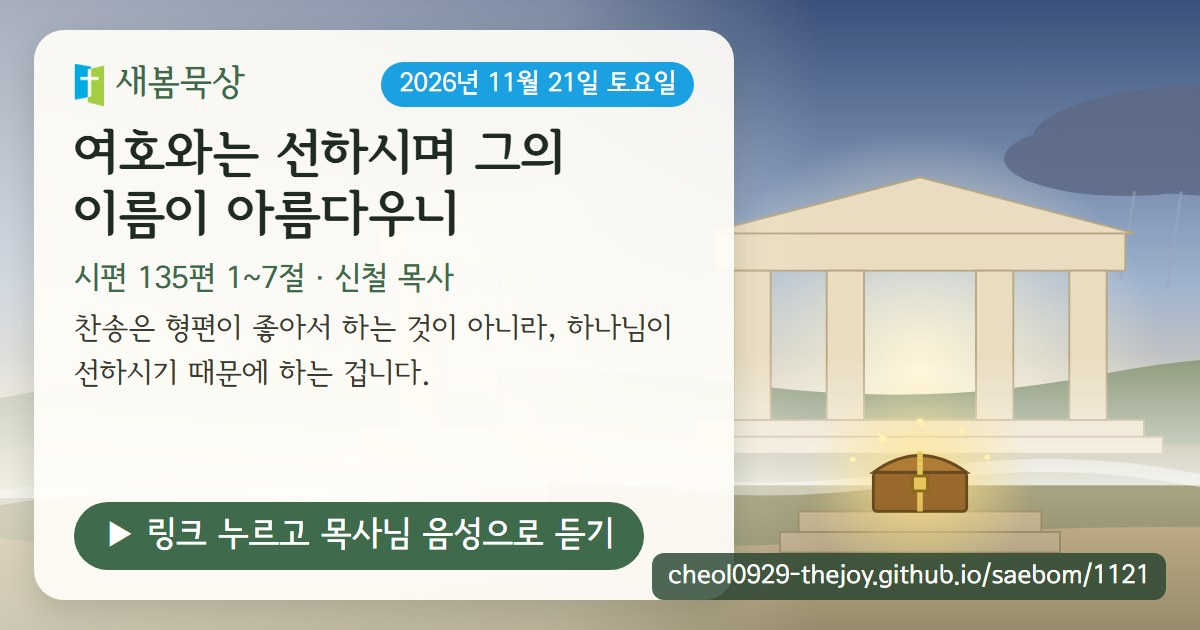
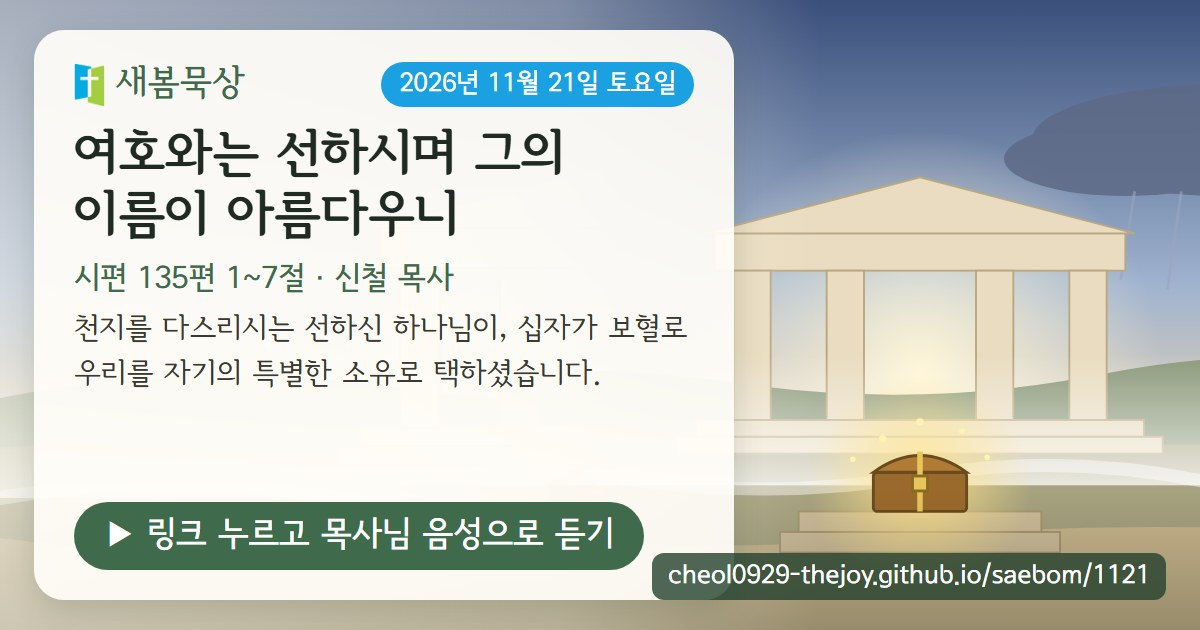
새봄묵상 11.21 여호와는 선하시며 그의 이름이 아름다우니 공유 카드 (카드 다시 만듦)

Changed region(s): [[0.0617, 0.4825, 0.5858, 0.5429], [0.0617, 0.573, 0.4933, 0.6333]]

diff --git a/1121.html b/1121.html
@@ -4,15 +4,15 @@
 <meta property="og:type" content="article">
 <meta property="og:site_name" content="새봄묵상">
 <meta property="og:title" content="새봄묵상 · 여호와는 선하시며 그의 이름이 아름다우니 (11.21)">
-<meta property="og:description" content="찬송은 형편이 좋아서 하는 것이 아니라, 하나님이 선하시기 때문에 하는 겁니다.">
-<meta name="description" content="찬송은 형편이 좋아서 하는 것이 아니라, 하나님이 선하시기 때문에 하는 겁니다.">
+<meta property="og:description" content="천지를 다스리시는 선하신 하나님이, 십자가 보혈로 우리를 자기의 특별한 소유로 택하셨습니다.">
+<meta name="description" content="천지를 다스리시는 선하신 하나님이, 십자가 보혈로 우리를 자기의 특별한 소유로 택하셨습니다.">
 <meta property="og:image" content="https://cheol0929-thejoy.github.io/saebom/1121/share.jpg">
 <meta property="og:image:secure_url" content="https://cheol0929-thejoy.github.io/saebom/1121/share.jpg">
 <meta property="og:image:type" content="image/jpeg">
 <meta property="og:image:width" content="1200"><meta property="og:image:height" content="630">
 <meta name="twitter:card" content="summary_large_image">
 <meta name="twitter:title" content="새봄묵상 · 여호와는 선하시며 그의 이름이 아름다우니 (11.21)">
-<meta name="twitter:description" content="찬송은 형편이 좋아서 하는 것이 아니라, 하나님이 선하시기 때문에 하는 겁니다.">
+<meta name="twitter:description" content="천지를 다스리시는 선하신 하나님이, 십자가 보혈로 우리를 자기의 특별한 소유로 택하셨습니다.">
 <meta name="twitter:image" content="https://cheol0929-thejoy.github.io/saebom/1121/share.jpg">
 <style>body{font-family:sans-serif;text-align:center;padding:40px 16px;background:#F3F5EF;color:#1F2A22}a{color:#3F6B4C;font-size:20px}</style>
 </head><body><p>새봄묵상으로 이동합니다…</p><p><a href="https://claude.ai/artifact/83acT3uNMUC3NGidY5284F#d20261121">바로 가기</a></p>

diff --git a/1121/index.html b/1121/index.html
@@ -4,15 +4,15 @@
 <meta property="og:type" content="article">
 <meta property="og:site_name" content="새봄묵상">
 <meta property="og:title" content="새봄묵상 · 여호와는 선하시며 그의 이름이 아름다우니 (11.21)">
-<meta property="og:description" content="찬송은 형편이 좋아서 하는 것이 아니라, 하나님이 선하시기 때문에 하는 겁니다.">
-<meta name="description" content="찬송은 형편이 좋아서 하는 것이 아니라, 하나님이 선하시기 때문에 하는 겁니다.">
+<meta property="og:description" content="천지를 다스리시는 선하신 하나님이, 십자가 보혈로 우리를 자기의 특별한 소유로 택하셨습니다.">
+<meta name="description" content="천지를 다스리시는 선하신 하나님이, 십자가 보혈로 우리를 자기의 특별한 소유로 택하셨습니다.">
 <meta property="og:image" content="https://cheol0929-thejoy.github.io/saebom/1121/share.jpg">
 <meta property="og:image:secure_url" content="https://cheol0929-thejoy.github.io/saebom/1121/share.jpg">
 <meta property="og:image:type" content="image/jpeg">
 <meta property="og:image:width" content="1200"><meta property="og:image:height" content="630">
 <meta name="twitter:card" content="summary_large_image">
 <meta name="twitter:title" content="새봄묵상 · 여호와는 선하시며 그의 이름이 아름다우니 (11.21)">
-<meta name="twitter:description" content="찬송은 형편이 좋아서 하는 것이 아니라, 하나님이 선하시기 때문에 하는 겁니다.">
+<meta name="twitter:description" content="천지를 다스리시는 선하신 하나님이, 십자가 보혈로 우리를 자기의 특별한 소유로 택하셨습니다.">
 <meta name="twitter:image" content="https://cheol0929-thejoy.github.io/saebom/1121/share.jpg">
 <style>body{font-family:sans-serif;text-align:center;padding:40px 16px;background:#F3F5EF;color:#1F2A22}a{color:#3F6B4C;font-size:20px}</style>
 </head><body><p>새봄묵상으로 이동합니다…</p><p><a href="https://claude.ai/artifact/83acT3uNMUC3NGidY5284F#d20261121">바로 가기</a></p>
